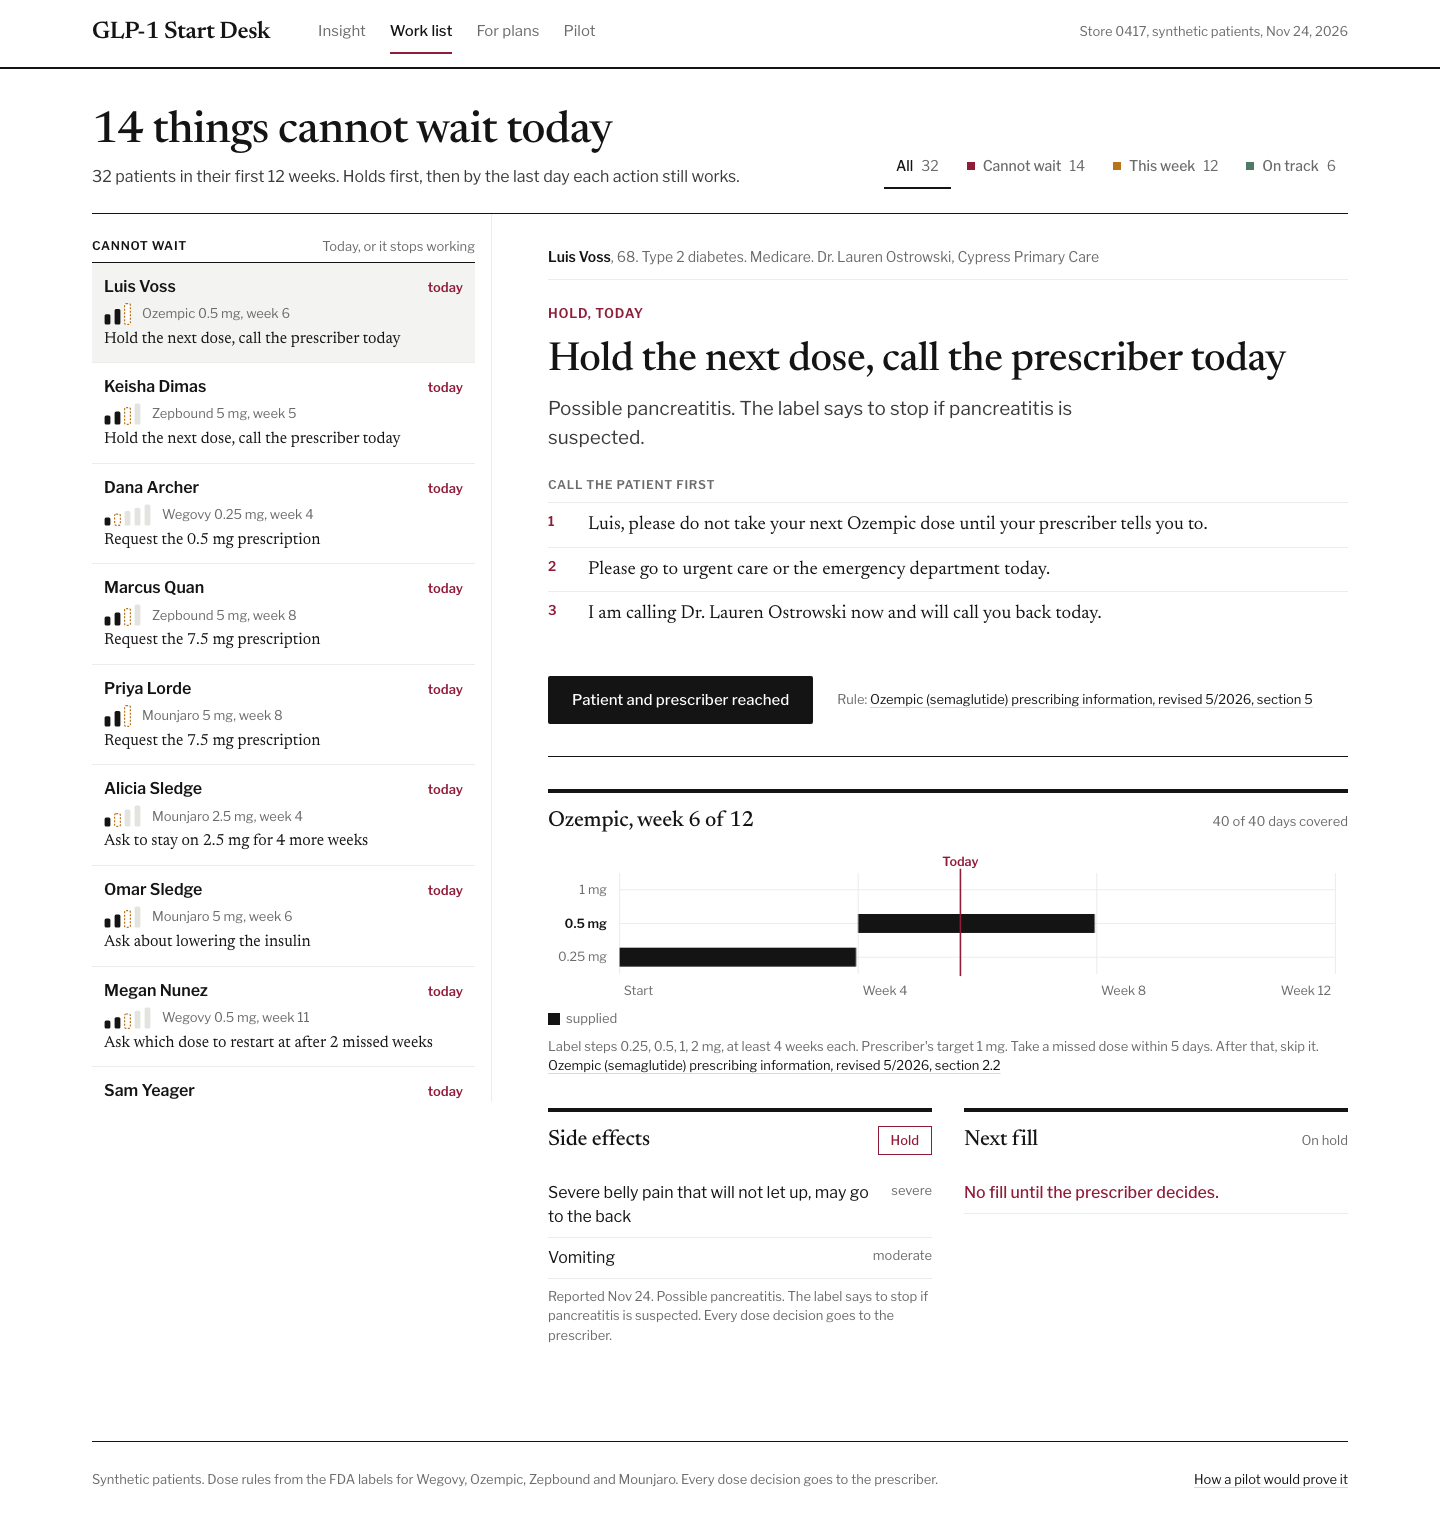
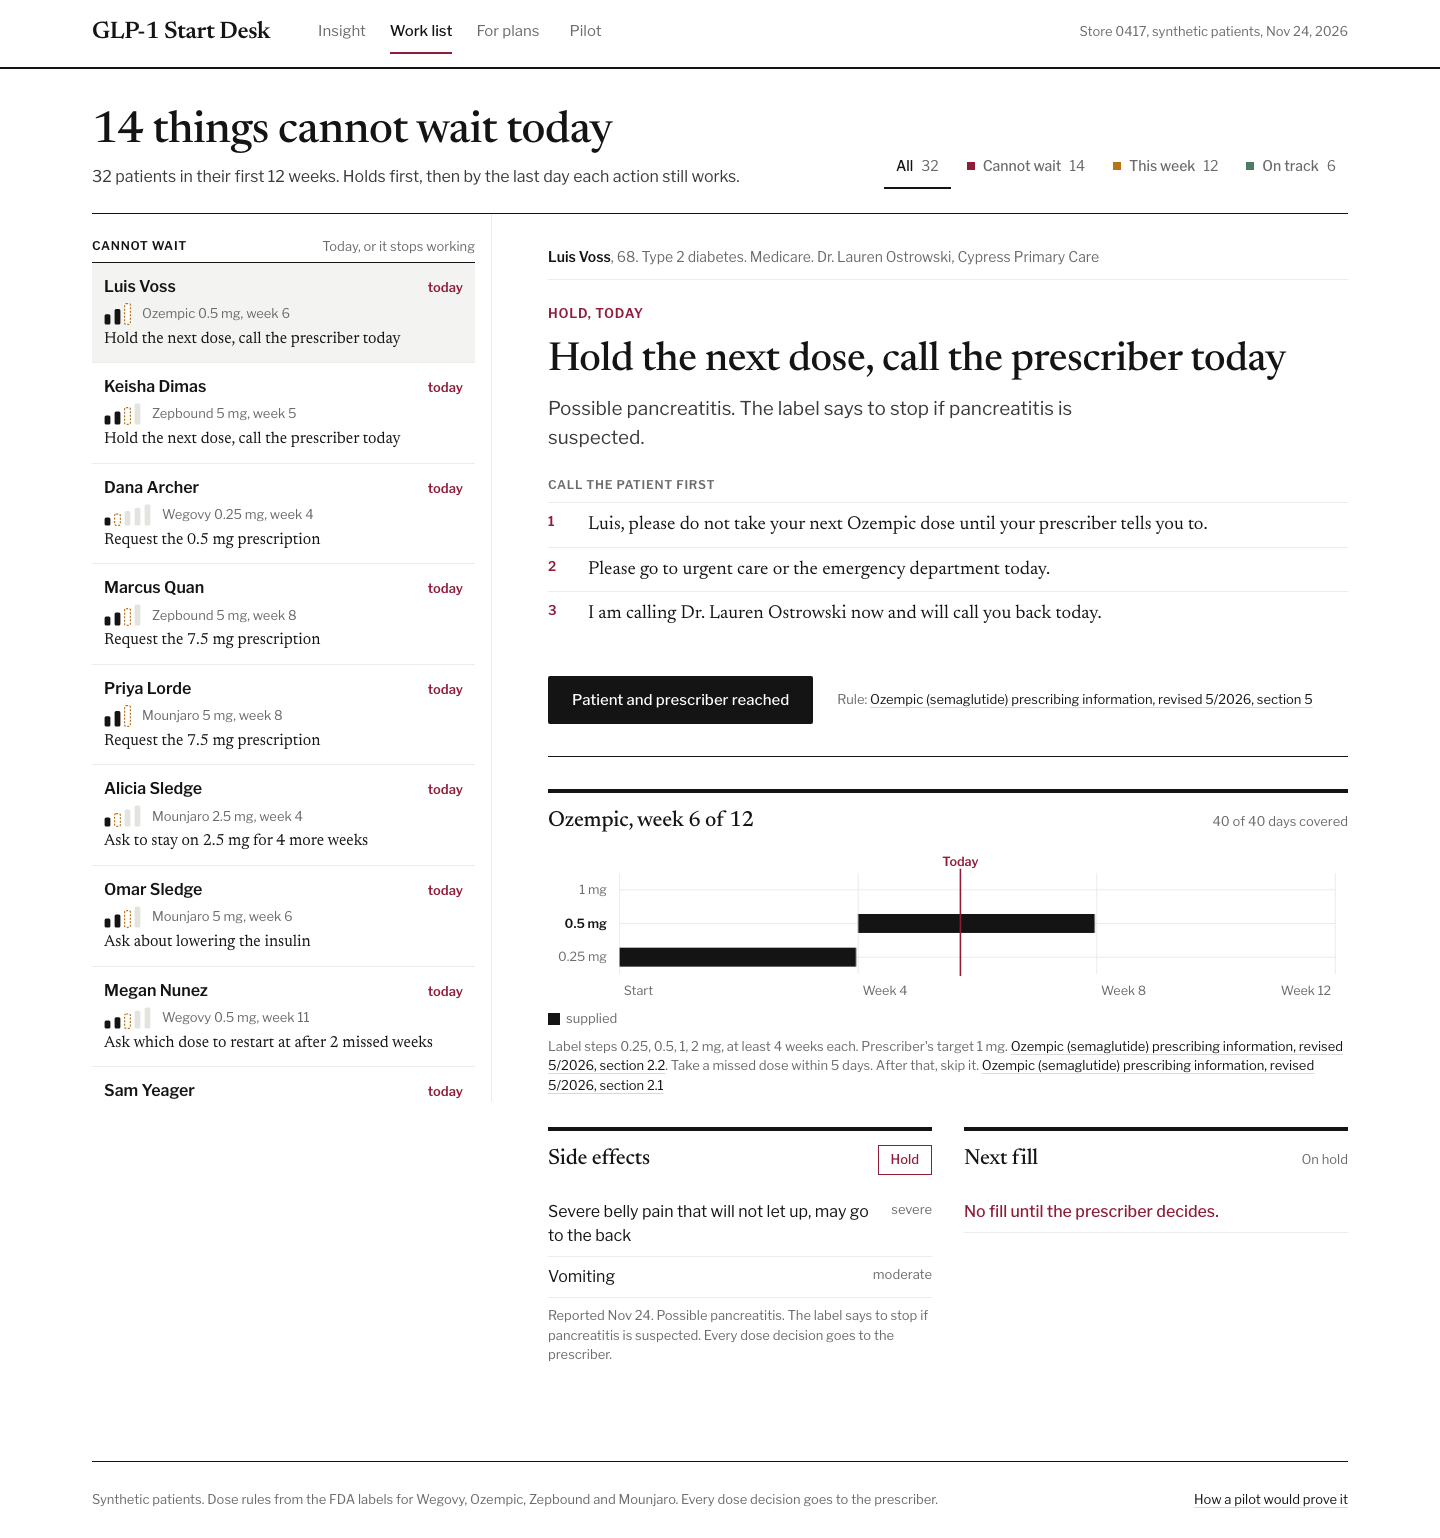
Fix review findings on the broadsheet pass
Same-day dots stack as a small beeswarm so all 22 show, and their click areas
never overlap. On touch screens the chart is read-only and links to the work
list. Headlines balance their lines, the phone filter is a 2x2 grid, nav items
are at least 44px wide, pilot steps share one top line, and lead paragraphs
use one sans style on every screen. The missed-dose rule now cites its own
label section (Ozempic 2.1, Wegovy 2.4, Zepbound 2.3, Mounjaro 2.1), checked
against the DailyMed labels.

diff --git a/src/ui/Insight.jsx b/src/ui/Insight.jsx
@@ -1,7 +1,7 @@
 // The opening story: why people stop, when each break hits, and who sees it first.
 import React, { useState } from 'react';
 import { REASONS, REASONS_SOURCE, SEES, SEES_NOTE, WHO } from './content.js';
-import { useNarrow } from './bits.jsx';
+import { useNarrow, useFinePointer } from './bits.jsx';
 import { dateLabel, firstName } from './format.js';
 import { breakPoints, BREAK_LANES } from './deskState.js';
 
@@ -48,19 +48,64 @@ function ReasonsChart() {
   );
 }
 
+// Same-day dots stack as a small beeswarm: up to three to a column on desktop, three down on a phone,
+// so no two dots share a spot. Each dot's click area starts as a 44-unit square inside its lane,
+// then any two that overlap are split at their midpoint, so no click area covers another dot's.
+function layoutDots(pts, x, yOf, laneH, narrow) {
+  const step = narrow ? 13 : 16;
+  const rows = narrow ? [0, 1, 2] : [0, -1, 1];
+  const half = narrow ? 22 : 28;
+  const out = [];
+  BREAK_LANES.forEach((ln, i) => {
+    const seen = {};
+    const top = narrow ? yOf(i) - 12 : yOf(i) - laneH / 2;
+    const bottom = narrow ? yOf(i) + 38 : yOf(i) + laneH / 2;
+    const here = pts.filter((q) => q.b.key === ln.key).sort((m, n) => m.b.day - n.b.day);
+    const dots = here.map((q) => {
+      const d = Math.min(q.b.day, 14);
+      const k = (seen[d] = (seen[d] || 0) + 1) - 1;
+      const cx = x(d) + Math.floor(k / rows.length) * step;
+      const cy = yOf(i) + rows[k % rows.length] * step;
+      return { q, ln, cx, cy, hit: { x0: cx - half, x1: cx + half, y0: Math.max(top, cy - half), y1: Math.min(bottom, cy + half) } };
+    });
+    for (let a = 0; a < dots.length; a += 1) {
+      for (let b = a + 1; b < dots.length; b += 1) {
+        const A = dots[a].hit;
+        const B = dots[b].hit;
+        if (A.x0 >= B.x1 || B.x0 >= A.x1 || A.y0 >= B.y1 || B.y0 >= A.y1) continue;
+        const dx = dots[b].cx - dots[a].cx;
+        const dy = dots[b].cy - dots[a].cy;
+        if (Math.abs(dx) >= Math.abs(dy)) {
+          const m = (dots[a].cx + dots[b].cx) / 2;
+          if (dx >= 0) { A.x1 = Math.min(A.x1, m); B.x0 = Math.max(B.x0, m); } else { A.x0 = Math.max(A.x0, m); B.x1 = Math.min(B.x1, m); }
+        } else {
+          const m = (dots[a].cy + dots[b].cy) / 2;
+          if (dy >= 0) { A.y1 = Math.min(A.y1, m); B.y0 = Math.max(B.y0, m); } else { A.y0 = Math.max(A.y0, m); B.y1 = Math.min(B.y1, m); }
+        }
+      }
+    }
+    out.push(...dots);
+  });
+  return out;
+}
+
 // Chart 2: each patient's next break by the day it hits.
 function BreakStrip({ data, go }) {
   const narrow = useNarrow();
+  // Dots open a patient only with a mouse. On touch screens they sit too close for a 44px tap
+  // target each, so the chart is read-only there and every patient is one tap away in the work list.
+  const fine = useFinePointer() && !narrow;
   const [hover, setHover] = useState(null);
   const pts = breakPoints(data);
   const W = narrow ? 358 : 1180;
-  const laneH = narrow ? 58 : 52;
+  const laneH = narrow ? 66 : 52;
   const L = narrow ? 0 : 320;
   const R = narrow ? 24 : 48;
   const T = 30;
   const H = T + BREAK_LANES.length * laneH + 8;
   const x = (d) => L + 12 + (Math.min(d, 14) / 14) * (W - L - R - 24);
   const yOf = (i) => T + i * laneH + laneH / 2 + (narrow ? 10 : 0);
+  const placed = layoutDots(pts, x, yOf, laneH, narrow);
   return (
     <figure className="a-fig wide">
       <figcaption className="a-figtitle">The next break for each of 32 synthetic patients, by the day it hits</figcaption>
@@ -81,27 +126,23 @@ function BreakStrip({ data, go }) {
             </g>
           );
         })}
-        {BREAK_LANES.map((ln, i) => {
-          const seen = {};
-          return pts.filter((q) => q.b.key === ln.key).sort((m, n) => m.b.day - n.b.day).map((q) => {
-            const stack = (seen[q.b.day] = (seen[q.b.day] || 0) + 1) - 1;
-            const cx = x(q.b.day) + stack * (narrow ? 10 : 15);
-            return (
-              <g key={q.p.id} className={`a-dot ${ln.kind}`} onMouseEnter={() => setHover({ q, cx, cy: yOf(i) })} onMouseLeave={() => setHover(null)} onClick={() => go('desk', q.p.id)}>
-                <circle cx={cx} cy={yOf(i)} r={narrow ? 6 : 7} />
-                <circle cx={cx} cy={yOf(i)} r={narrow ? 22 : 38} className="hit" />
-              </g>
-            );
-          });
-        })}
-        {hover && !narrow && (
+        {placed.map(({ q, ln, cx, cy, hit }) => (fine ? (
+          <g key={q.p.id} className={`a-dot ${ln.kind}`} onMouseEnter={() => setHover({ q, cx, cy })} onMouseLeave={() => setHover(null)} onClick={() => go('desk', q.p.id)}>
+            <rect x={hit.x0} y={hit.y0} width={hit.x1 - hit.x0} height={hit.y1 - hit.y0} className="hit" />
+            <circle cx={cx} cy={cy} r={narrow ? 6 : 7} />
+          </g>
+        ) : (
+          <circle key={q.p.id} className={`a-dot still ${ln.kind}`} cx={cx} cy={cy} r={narrow ? 6 : 7} />
+        )))}
+        {hover && fine && (
           <g className="a-tip" transform={`translate(${Math.min(hover.cx + 14, W - 300)}, ${hover.cy - 42})`}>
             <rect width="286" height="30" />
             <text x="12" y="20">{firstName(hover.q.p.name)}: {hover.q.p.analysis.action.title.toLowerCase()}</text>
           </g>
         )}
       </svg>
-      <p className="a-note">Each dot is read from the prescription file, the approval, the card, the shelf or the last check-in. {narrow ? 'Tap' : 'Click'} a dot to open the patient.</p>
+      <p className="a-note">Each dot is read from the prescription file, the approval, the card, the shelf or the last check-in. {fine ? 'Click a dot to open the patient.' : 'Every patient is in the work list.'}</p>
+      {!fine && <button className="a-link a-open" onClick={() => go('desk')}>Open the work list →</button>}
     </figure>
   );
 }
@@ -133,7 +174,7 @@ function WhoSees() {
           ))}
         </div>
       ))}
-      <p className="a-note"><Harvey s="yes" /> sees it in the normal course of work <Harvey s="maybe" /> only sometimes <Harvey s="no" /> does not see it. Kevin's read of who holds the information today, from more than 15 years in pharmacy, not a measured result.</p>
+      <p className="a-note a-key"><span><Harvey s="yes" /> sees it in the normal course of work</span> <span><Harvey s="maybe" /> only sometimes</span> <span><Harvey s="no" /> does not see it.</span> Kevin's read of who holds the information today, from more than 15 years in pharmacy, not a measured result.</p>
     </div>
   );
 }

diff --git a/src/styles.css b/src/styles.css
@@ -173,7 +173,7 @@ html, body { background: #ffffff; }
 .app main { flex: 1; }
 .app a { color: var(--ink); text-decoration-color: var(--rule); text-underline-offset: 3px; }
 .app a:hover { text-decoration-color: var(--ink); }
-.app h1, .app h2, .app h3 { font-family: var(--serif); font-weight: 500; letter-spacing: -0.01em; color: var(--ink); }
+.app h1, .app h2, .app h3 { font-family: var(--serif); font-weight: 500; letter-spacing: -0.01em; color: var(--ink); text-wrap: balance; }
 .app em { font-style: italic; color: var(--money); }
 
 /* masthead */
@@ -182,7 +182,7 @@ html, body { background: #ffffff; }
 .a-mast-in { max-width: 1320px; margin: 0 auto; padding: 0 32px; height: 64px; display: flex; align-items: center; gap: 48px; }
 .a-title { font-family: var(--serif); font-size: 24px; font-weight: 600; text-decoration: none; letter-spacing: -0.015em; white-space: nowrap; min-height: 44px; display: inline-flex; align-items: center; }
 .a-nav { display: flex; gap: 24px; }
-.a-nav a { text-decoration: none; color: var(--mute); font-size: 15px; min-height: 44px; display: inline-flex; align-items: center; border-bottom: 2px solid transparent; }
+.a-nav a { min-width: 44px; justify-content: center; text-decoration: none; color: var(--mute); font-size: 15px; min-height: 44px; display: inline-flex; align-items: center; border-bottom: 2px solid transparent; }
 .a-nav a.on { color: var(--ink); border-bottom-color: var(--money); font-weight: 500; }
 .a-nav a:hover { color: var(--ink); }
 .a-dateline { margin-left: auto; font-size: 13px; color: var(--mute); white-space: nowrap; }
@@ -229,13 +229,19 @@ html, body { background: #ffffff; }
 .a-lanel { font: 500 14px var(--sans); fill: var(--ink); }
 .a-count { font: 600 14px var(--sans); fill: var(--mute); font-variant-numeric: tabular-nums; }
 .a-dot { cursor: pointer; }
+.a-dot.still { cursor: default; stroke: #fff; stroke-width: 1.5; }
+.a-dot.still.paperwork { fill: var(--paper); }
+.a-dot.still.money { fill: var(--money); }
+.a-dot.still.supply { fill: var(--supply); }
+.a-dot.still.clinical { fill: var(--clinical); }
+.a-open { padding: 0; margin-top: 8px; }
 .a-dot circle { stroke: #fff; stroke-width: 1.5; }
 .a-dot.paperwork circle { fill: var(--paper); }
 .a-dot.money circle { fill: var(--money); }
 .a-dot.supply circle { fill: var(--supply); }
 .a-dot.clinical circle { fill: var(--clinical); }
-.a-dot circle.hit { fill: transparent; stroke: none; }
-.a-dot:hover circle:first-child { stroke: var(--ink); }
+.a-dot .hit { fill: transparent; stroke: none; }
+.a-dot:hover circle { stroke: var(--ink); }
 .a-tip rect { fill: var(--ink); }
 .a-tip text { font: 13px var(--sans); fill: #fff; }
 
@@ -354,7 +360,7 @@ html, body { background: #ffffff; }
 .app .a-carry h2 { font-family: var(--serif); font-weight: 500; font-size: 28px; }
 .app .a-carry h3 { font-family: var(--sans); font-weight: 600; font-size: 13px; letter-spacing: 0.06em; text-transform: uppercase; margin: 0 0 12px; }
 .app .hl { box-shadow: none; font-style: italic; color: var(--money); }
-.app .lede { font-family: var(--serif); font-size: 21px; color: var(--ink2); }
+.app .lede { font-family: var(--sans); font-size: 19px; line-height: 1.5; color: var(--ink2); }
 .app .sub { color: var(--mute); font-size: 14px; }
 .app .mono { font-family: var(--sans); font-variant-numeric: tabular-nums; }
 .app .planlead { border-bottom: 1px solid var(--ink); }
@@ -381,6 +387,9 @@ html, body { background: #ffffff; }
 .app .pstep .mono { font-weight: 600; font-size: 12px; letter-spacing: 0.06em; text-transform: uppercase; color: var(--mute); }
 .app .pstep.hot .mono { color: var(--money); }
 .app .checked { border-top: 1px solid var(--ink); }
+.app .pflow { align-items: start; }
+.app .parrow { align-self: start; padding-top: 32px; }
+.a-key > span { white-space: nowrap; }
 .app .tick-mark { color: var(--clinical); }
 
 .a-foot { max-width: 1256px; width: calc(100% - 64px); margin: 0 auto; display: flex; justify-content: space-between; gap: 24px; align-items: center; padding: 16px 0; border-top: 1px solid var(--ink); font-size: 13px; color: var(--mute); box-sizing: border-box; }
@@ -411,7 +420,8 @@ html, body { background: #ffffff; }
   .a-ctas { flex-direction: column; align-items: stretch; }
   .a-desk { padding-top: 24px; }
   .a-deskhead h1 { font-size: 32px; }
-  .a-filter { flex-wrap: wrap; }
+  .a-filter { display: grid; grid-template-columns: 1fr 1fr; width: 100%; }
+  .a-filter button { justify-content: flex-start; }
   .a-split { grid-template-columns: 1fr; }
   .a-list { position: static; max-height: none; border: 0; padding: 0; }
   .a-detail { display: none; }
@@ -425,3 +435,4 @@ html, body { background: #ffffff; }
   .app .a-carry .page { padding: 32px 16px 48px; }
   .app .a-carry h1 { font-size: 32px; }
 }
+@media (max-width: 1023px) { .app .parrow { padding-top: 0; align-self: center; } }

diff --git a/src/ui/deskState.js b/src/ui/deskState.js
@@ -76,11 +76,11 @@ export function detailOf(p, data, done) {
           : late ? [] : [{ tone: 'ok', text: `Prescription on file${p.pa ? ', approval covers it' : ''}${p.card ? ', savings card active' : ''}. Nothing blocking.` }]),
       ],
     };
-  const ladderFoot = `Label steps ${prod.steps.join(', ')} mg, at least 4 weeks each. Prescriber's target ${p.target} mg. ${prod.missedRule}`;
+  const ladderFoot = `Label steps ${prod.steps.join(', ')} mg, at least 4 weeks each. Prescriber's target ${p.target} mg.`;
   return {
     a, prod, k, lines, verb, sayLabel, when, quiet, fax, isDone: !!done[p.id], doneAt: done[p.id],
     effects: { tone: effTone, label: effLabel, flags: flags.map((e) => EFFECT_LABEL[e.key]), list: effects.map((e) => ({ key: e.key, label: EFFECT_LABEL[e.key], level: e.level })), note: effNote, none: effNone },
-    fill, ladderFoot, ladderHeld: held || a.action.type === 'restart', cite: a.action.cite, schedule: prod.schedule,
+    fill, ladderFoot, ladderHeld: held || a.action.type === 'restart', cite: a.action.cite, schedule: prod.schedule, missedRule: prod.missedRule, missedCite: prod.missedCite,
   };
 }
 

diff --git a/src/ui/bits.jsx b/src/ui/bits.jsx
@@ -14,6 +14,19 @@ export function useNarrow(px = 760) {
 }
 import { dateLabel } from './format.js';
 
+// True when the main pointer is a mouse or trackpad that can hover.
+export function useFinePointer() {
+  const q = '(hover: hover) and (pointer: fine)';
+  const [f, setF] = useState(() => typeof window !== 'undefined' && window.matchMedia(q).matches);
+  useEffect(() => {
+    const m = window.matchMedia(q);
+    const on = () => setF(m.matches);
+    m.addEventListener('change', on);
+    return () => m.removeEventListener('change', on);
+  }, []);
+  return f;
+}
+
 export function Cite({ c }) {
   if (!c) return null;
   const text = `${c.title}${c.section ? `, section ${c.section}` : ''}`;

diff --git a/src/ui/Today.jsx b/src/ui/Today.jsx
@@ -44,7 +44,7 @@ function Detail({ p, data, desk }) {
       <section className="a-block">
         <header><h3>{d.prod.brand}, week {a.week} of 12</h3><span>{a.coverage.covered} of {a.coverage.elapsed} days covered</span></header>
         <Ladder p={p} product={d.prod} a={a} held={d.ladderHeld} />
-        <p className="a-note">{d.ladderFoot} <Cite c={d.schedule} /></p>
+        <p className="a-note">{d.ladderFoot} <Cite c={d.schedule} />. {d.missedRule} <Cite c={d.missedCite} /></p>
       </section>
       <div className="a-two">
         <section className="a-block">
